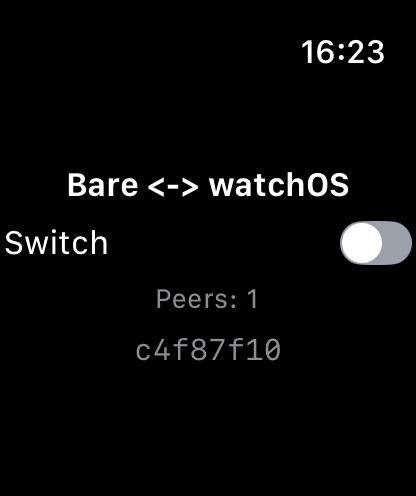
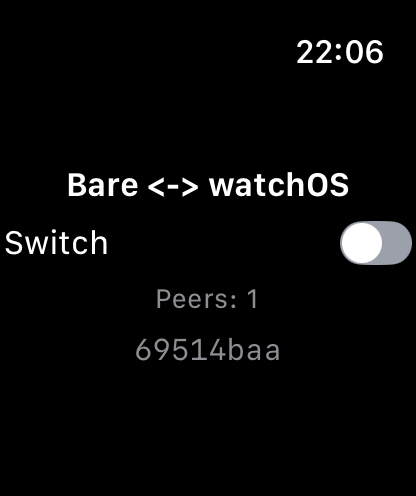
docs: add the results of a clean clone with the patches

Changed region(s): [[0.3125, 0.6653, 0.6875, 0.7258], [0.7188, 0.0605, 0.9375, 0.1512]]

diff --git a/RESULTS.md b/RESULTS.md
@@ -5,42 +5,40 @@ Measured on 2026-11-07 on one Mac. Nothing here ran on a real Apple Watch.
 - Mac17,2 (Apple M5), macOS 26.7.1 (25G241).
 - Xcode 26.2 (17C52): watchOS and watchOS Simulator SDKs 26.2, simulator runtime watchOS 26.2 (23S303), simulator
   `Apple Watch Series 11 (46mm)`. Linker: Xcode's ld-1230.1.
-- `../tools`: bare-make 2.1.2, cmake-toolchains 2.2.2 with the fork over it, cmake-runtime 4.3.1, ninja-runtime
-  1.13.2, llvm-runtime 23.1.6-0 (clang 23.1.5). Node 24.21.0, npm 11.19.0, XcodeGen 2.46.0.
-- Bare Kit sources: Bare v1.36.2 (c0b6b3b, what bare-kit 3.0.1 fetches) and libuv v1.53.0 (840404ce, what Bare
-  fetches), each with its fork's commit; bare-kit 174ecf8 (3.0.1) and bare-kit-swift 7be67fc (2.2.0), each with its
-  fork's commit; libqjsng 8f10631, which builds QuickJS-NG 0.18.0 with its 11 patches; libjs b03f452; libintrusive
-  01eae7f.
-- The worklet: hyperswarm 4.17.2, hyperdht 6.36.0, `@hyperswarm/dht-relay` 0.4.3 with its fork at b04644f
-  (`fix/relayed-client`), `@ciranda/dht-relay-http` at b9b1610, bare-switch-core 1.3.0 with its fork at 61fd18c
-  (`feat/watchos`), bare-foundation 0.1.1 with its fork at 7a25909 (`feat/url-session`), sodium-native 5.2.0 with its
-  fork, udx-native 1.22.1, hrpc 4.3.1. The `overrides` in `package.json` give `@hyperswarm/dht-relay` sodium-universal
-  5 and noise-handshake 4.2, so the app links one sodium-native, 5.2.0, instead of 5.2.0 and 4.3.3.
+- Node 24.21.0, npm 11.19.0, XcodeGen 2.46.0. bare-make 2.1.2, cmake-toolchains 2.2.2 with its patch, cmake-runtime
+  4.3.1, ninja-runtime 1.13.2, llvm-runtime 23.1.6-0 (clang 23.1.5), from `package.json`.
+- The pins in `build.sh`, each with its `patches/`: Bare v1.36.2 and libuv v1.53.0, what bare-kit 3.0.1 and Bare
+  fetch; bare-kit 174ecf8 (3.0.1) and bare-kit-swift 7be67fc (2.2.0); libjs b03f452 and libintrusive 01eae7f; libqjsng
+  8f10631, which builds QuickJS-NG 0.18.0 with its 11 patches; and the commits the other patched repositories start
+  from.
+- The worklet: hyperswarm 4.17.2, hyperdht 6.36.0, `@hyperswarm/dht-relay` at 5036c4b with its patches,
+  `@ciranda/dht-relay-http` at b9b1610, bare-switch-core 1.3.0 and bare-foundation 0.1.1 with their patches,
+  sodium-native 5.2.0, udx-native 1.22.1, hrpc 4.3.1. The `overrides` in `package.json` give `@hyperswarm/dht-relay`
+  sodium-universal 5 and noise-handshake 4.2, so the app links one sodium-native, 5.2.0, instead of 5.2.0 and 4.3.3.
 - The app: bare-rpc-swift 1.1.0 and compact-encoding-swift 1.0.0, pinned in `project.yml` (see below).
 
-## Clean run
+## A clean clone
 
-With `../work`, every `node_modules`, `build`, `prebuilds`, `BareKit.xcframework` and this repository's generated files
-removed:
+This repository at 80aaad0 and `dht-relay-http` at b9b1610, each cloned into a new temporary directory, side by side:
 
 ```sh
-../build.sh            # tools sources barekit example addons: exit 0, 416 s
-../build.sh app run    # exit 0, 55 s
+./build.sh    # sources deps barekit addons app: exit 0, 488 s
 ```
 
-Logs: `../logs/clean-build.log`, `../logs/clean-app-run.log`. 185 compiler and linker warnings, none an error: 114
+Log: `../logs/clone/build.log`. Every patch applied at its pin, and each patched tree is the same git tree as the branch
+the patch came from (Bare and libuv: that branch rebased onto v1.36.2 and v1.53.0). 187 warnings, none an error: 114
 `variable 'err' set but not used`, 33 unused variables and 6 typedef redefinitions from Bare, libuv and the addons, 30
-`-undefined dynamic_lookup is deprecated` (cmake-bare links every Apple addon that way), and
-two that are real on arm64_32 only, both harmless here: Bare's `runtime.c` puts a 64-bit `st_size` in a 32-bit `size_t`
-(a file of 4 GiB or more would read short), and sodium-native's `pbkdf2.c` has a range check that is always false with a
-32-bit `size_t`.
+`-undefined dynamic_lookup is deprecated` (cmake-bare links every Apple addon that way), 2 from Xcode's App Intents
+step, and two that are real on arm64_32 only, both harmless here: Bare's `runtime.c` puts a 64-bit `st_size` in a
+32-bit `size_t` (a file of 4 GiB or more would read short), and sodium-native's `pbkdf2.c` has a range check that is
+always false with a 32-bit `size_t`. The clone had no changes to its tracked files afterwards.
 
 ## BareKit.xcframework
 
-`../forks/bare-kit-swift/BareKit.xcframework`, built by `../build.sh barekit` from bare-kit-swift's own CMake with
+`vendor/bare-kit-swift/BareKit.xcframework`, built by `./build.sh barekit` from bare-kit-swift's own CMake with
 `BARE_ENGINE=github:holepunchto/libqjsng#8f1063161a1d66ea870d1590bf460b7916f21da8`, one `bare-make generate`, `build`
 and `install` per target as `holepunchto/actions/compile-prebuilds` does, then merged as
-`holepunchto/actions/create-xcframework` does with its fork's grouping.
+`holepunchto/actions/create-xcframework` does with its patch.
 
 | Library identifier        | Architectures                                | `BareKit`   | `minos` (LC_BUILD_VERSION) |
 | ------------------------- | -------------------------------------------- | ----------- | -------------------------- |
@@ -55,23 +53,23 @@ and `install` per target as `holepunchto/actions/compile-prebuilds` does, then m
 
 ## The app
 
-`../build.sh app`: `xcodegen generate`, then `BARE_KIT_LOCAL=1 xcodebuild -scheme App` for
+`./build.sh app`: `xcodegen generate`, then `BARE_KIT_LOCAL=1 xcodebuild -scheme App` for
 `platform=watchOS Simulator,name=Apple Watch Series 11 (46mm)` and for `generic/platform=watchOS` with
-`CODE_SIGNING_ALLOWED=NO`. Both `** BUILD SUCCEEDED **`. `app.bundle` is 1,476,937 B: 275 files, 203 of them
+`CODE_SIGNING_ALLOWED=NO`. Both `** BUILD SUCCEEDED **`. `app.bundle` is 1,477,550 B: 275 files, 203 of them
 JavaScript, and five linked addons, made into xcframeworks by the scheme's `bare-link --preset watchos`.
 
 | Debug build       | App        | BareKit     | bare-foundation | sodium-native | udx-native | bare-inspect | bare-type |
 | ----------------- | ---------- | ----------- | --------------- | ------------- | ---------- | ------------ | --------- |
-| watchOS Simulator | 6,748 KiB  | 3,088,432 B | 92,768 B        | 798,912 B     | 242,064 B  | 68,832 B     | 68,944 B  |
-| watchOS, unsigned | 12,212 KiB | 6,160,784 B | 207,808 B       | 1,654,832 B   | 535,392 B  | 200,624 B    | 200,864 B |
+| watchOS Simulator | 6,756 KiB  | 3,088,432 B | 93,072 B        | 798,912 B     | 242,064 B  | 68,832 B     | 68,944 B  |
+| watchOS, unsigned | 12,220 KiB | 6,160,784 B | 208,160 B       | 1,654,832 B   | 535,392 B  | 200,624 B    | 200,864 B |
 
 The simulator build is arm64, the device build arm64_32 + arm64. bare-foundation links Foundation, CoreFoundation,
 libSystem and libobjc, `minos` 8.0. The device build is compiled and linked only: not signed, not installed, not run.
 
 ## The switch in the simulator
 
-The relay and the peer ran on the Mac, on the public DHT, and the app in the simulator, built Debug with `RELAY_URL`
-`http://localhost:49443`:
+The app of the clean clone, built Debug with `RELAY_URL` `http://localhost:49443`, and the relay and the peer on the
+Mac, on the public DHT, from the two clones:
 
 ```sh
 node ../dht-relay-http/bin.js --port 49443 --host 127.0.0.1
@@ -80,79 +78,88 @@ node peer.js
 
 A script that is not part of this repository booted the simulator, started both, waited 15 s for the peer's announce,
 launched the app with `simctl launch --console-pty`, read the worklet's lines from the unified log (`log stream`),
-pressed enter in `peer.js` five times and then tapped the switch five times with an XCUITest runner, 3 s apart. Logs:
-`../logs/switch-run-1.log`, `../logs/switch-run-2.log` (the clean build's app), with `switch-summary-*.json`, and for run
-2 the app's unified log (`switch-watch-raw.log`) and the runner's (`switch-xctest.log`). The screenshots are run 2's.
+pressed enter in `peer.js` five times and then tapped the switch five times with an XCUITest runner, 3 s apart. Then it
+stopped the relay, started it again 10 s after the worklet had lost it, and flipped once from each side. Logs:
+`../logs/clone/switch-run.log`, `switch-summary.json`, the app's unified log (`switch-watch-raw.log`) and the runner's
+(`switch-xctest.log`).
 
-| Connected, off                    | Flipped on in `peer.js` | Flipped off on the watch |
-| --------------------------------- | ----------------------- | ------------------------ |
-| ![Connected](media/connected.png) | ![On](media/on.png)     | ![Off](media/off.png)    |
+| Connected, off                    | Flipped on in `peer.js` | Flipped off on the watch | Joined again after the relay came back |
+| --------------------------------- | ----------------------- | ------------------------ | -------------------------------------- |
+| ![Connected](media/connected.png) | ![On](media/on.png)     | ![Off](media/off.png)    | ![Joined again](media/rejoined.png)    |
 
-| Run | Launch to `up` | `up` to the first peer | `peer.js` to the watch (ms) | The watch to `peer.js` (ms) |
-| --- | -------------- | ---------------------- | --------------------------- | --------------------------- |
-| 1   | 469 ms         | 1,883 ms               | 2.9, 5.0, 6.9, 6.7, 8.7     | 6.2, 7.2, 5.0, 5.4, 14.5    |
-| 2   | 418 ms         | 1,424 ms               | 6.0, 2.9, 7.7, 6.1, 6.8     | 6.0, 3.6, 3.9, 3.3, 4.5     |
+| Launch to `up` | `up` to the first peer | `peer.js` to the watch (ms) | The watch to `peer.js` (ms) | Relay back to a peer |
+| -------------- | ---------------------- | --------------------------- | --------------------------- | -------------------- |
+| 399 ms         | 1,854 ms               | 6.5, 7.2, 7.0, 4.4, 6.2     | 5.8, 3.5, 4.0, 4.6, 5.4     | 6,850 ms             |
 
 - Launch to `up` is from `simctl launch` to the worklet's `[worklet] up` line, which it writes once its bundle is
-  evaluated and the swarm made. In run 2 the app's first line in the unified log came 153 ms before `up`.
+  evaluated and the swarm made. The app's first line in the unified log came 157 ms before `up`.
 - A flip is timed from the line of the side that flipped (`peer.js`'s `set` on its stdout, the worklet's `set` in the
   unified log) to the line of the other side (`state`), all on the Mac's clock. The relay and the peer are on the same
-  Mac as the simulator, so this is the relay's path, not a network's.
-- Every flip arrived, each value once. The relay logged `Session opened (1)` as the worklet started, and one session
-  for the whole run.
-- Memory, as `footprint` reports the app's process: run 1, 37 MB once connected and 44 MB at the end; run 2, 31 MB
-  (peak 34 MB) once connected and 44 MB at the end. This is a Mac process: the whole app, SwiftUI and Bare Kit with the
-  worklet's QuickJS-NG heap, and the simulator sets it no limit.
+  Mac as the simulator, so this is the relay's path, not a network's. Two earlier runs, built from the same changes
+  before they were patches and without the rejoin, measured 2.9 to 8.7 ms one way and 3.3 to 14.5 ms the other.
+- Every flip arrived, each value once. The relay logged `Session opened (1)` as the worklet started.
+- When the relay stopped, its held poll answered `410`, the worklet logged it and `peers - 0`, and tried again every 5
+  s (`Could not connect to the server.`, twice). The relay logged `Session opened (1)` 5.0 s after it was back, and
+  the worklet had its peer 1.8 s later; then a flip from each side arrived (7.0 ms and 5.1 ms).
+- Memory, as `footprint` reports the app's process: 37 MB once connected, 44 MB after the flips, 45 MB at the end. This
+  is a Mac process: the whole app, SwiftUI and Bare Kit with the worklet's QuickJS-NG heap, and the simulator sets it
+  no limit.
 
 The worklet used only URLSession:
 
 - `app.bundle` has no bare-tcp, bare-net, bare-dns, bare-pipe or ws. It has udx-native, as hyperswarm requires hyperdht,
   whose dht-rpc requires udx-native when it loads, so its framework is linked and loaded. The worklet makes no UDX
-  socket: the swarm is given the relayed DHT and never makes one of its own.
-- `lsof -p` on the app's process in run 2, once connected and at the end, listed directories, files, character
-  devices, kqueues and pipes, and no socket of any kind (`lsof -i` found none in run 1 either).
-- CFNetwork logged 65 data tasks of the app in run 2, all `response_status=200`, on 13 http/1.1 connections. It also logged 45 failed tasks
-  (`response_status=-1`), each right after an `Uploading ATS exception ATSAllowsLocalNetworking` (45 of those): its own
-  report of the ATS exception, numbered apart from the app's tasks. The worklet logs any failed request of its own
-  (`[worklet] relay -`), and logged none.
+  socket: each swarm is given the relayed DHT and never makes one of its own.
+- `lsof -p` on the app's process, once connected, after the flips and at the end, listed directories, files, character
+  devices, kqueues and pipes, and no socket of any kind.
+- CFNetwork logged 93 data tasks of the app with a response: 91 `200`, the `410` above, and a `404` for the session the
+  stopped relay no longer had. It also logged 71 failed tasks: the two that couldn't connect while the relay was down,
+  and 69 numbered apart from the app's, each right after an `Uploading ATS exception ATSAllowsLocalNetworking`, its own
+  report of the ATS exception.
 
-Without a relay (`../build.sh run`, which launches the app alone for 5 s), the screenshot (`build/simulator.png`)
-showed the worklet's key and `Peers: 0`, and no crash report was written.
+## Tests of the patches
 
-## Tests of the forks
+| Repository           | Run                               | Result                                                               |
+| -------------------- | --------------------------------- | -------------------------------------------------------------------- |
+| bare-foundation      | `npm test` (Bare, darwin-arm64)   | 8/8, 48/48 asserts, with a new `exiting with a data task in flight`  |
+| bare-switch-core     | `npm test` (Bare), `npm run lint` | 11/11, 27/27 asserts, with a new `joins as a client only when asked` |
+| hyperswarm-dht-relay | `npm test` (standard, Node)       | 18/18, 56/56 asserts, 3 upstream skips, with five new tests          |
+| cmake-toolchains     | `brittle-node test.js`            | 455/455, of which 42 build for the three watchOS toolchains          |
+| bare-addon-resolve   | `npm test` (Bare and Node)        | 96/96 each, with a new `linked module, watchos`                      |
+| bare-link            | `npm test` (Bare and Node)        | 58/58 each, with four new watchOS tests                              |
+| bare-pack            | `brittle-bare` and `brittle-node` | 25/25 each                                                           |
 
-| Fork                 | Branch               | Run                               | Result                                                      |
-| -------------------- | -------------------- | --------------------------------- | ----------------------------------------------------------- |
-| bare-switch-core     | `feat/watchos`       | `npm test` (Bare), `npm run lint` | 11/11, 27/27 asserts, with a new `joins as a client only`   |
-| hyperswarm-dht-relay | `fix/relayed-client` | `npm test` (standard, Node)       | 15/15, 50/50 asserts, 3 upstream skips, two new tests       |
-| cmake-toolchains     | `feat/watchos`       | `brittle-node test.js`            | 455/455, of which 42 build for the three watchOS toolchains |
-| bare-addon-resolve   | `feat/watchos`       | `npm test` (Bare and Node)        | 96/96 each, with a new `linked module, watchos`             |
-| bare-link            | `feat/watchos`       | `npm test` (Bare and Node)        | 58/58 each, with four new watchOS tests                     |
-| bare-pack            | `feat/watchos`       | `brittle-bare` and `brittle-node` | 25/25 each                                                  |
-
-The last four are from the first version of this example and were not run again. hyperswarm-dht-relay's two new tests
-fail before their fixes: `client mode, keep-alive of the server` for `custodial: false`, and `stream that fails to
-open` with an unhandled rejection.
+The last four were run on the first version of this example and not again. The new tests of bare-foundation and
+hyperswarm-dht-relay fail without their fixes: `exiting with a data task in flight` with the child Bare ended by
+`SIGSEGV`, `client mode, keep-alive of the server` for `custodial: false`, and `stream that fails to open` with an
+unhandled rejection.
 
 ## What went wrong on the way
 
-- **The keep-alives of the peer flipped the switch off.** A client of `@hyperswarm/dht-relay` 0.4.3 without custody
-  gets the peer's keep-alives, every 5 s from hyperdht, as empty messages, and bare-switch-core reads an empty message
-  as off. hyperdht's own streams filter them. The fork sets `filterZeroByteMessages` on the client's `SecretStream`.
-- **An unreachable relay was an uncaught error.** In Node, the worklet's code with no relay ended on `fetch failed` from
-  the relay's stream, which nothing listened to, and then on an unhandled rejection of the protocol's opening, which
-  nothing awaits. Bare aborts on either. `app.js` now handles the errors of its stream and the fork leaves no unhandled
-  rejection; then the same code stayed up with no relay, and when the relay went away mid-session (Node, on a
-  `hyperdht/testnet`).
+- **Bare crashed on exit with a data task in flight.** The task's threadsafe function outlived the environment: Bare's
+  last turn of the loop delivered the completion and libjs entered a disposed isolate (`SIGSEGV` in
+  `js_threadsafe_function_s::call()` from `bare_runtime_teardown`). Each task now registers a deferred teardown, as
+  bare-dns does for its lookups: the teardown cancels the task, and its completion lets the environment go without
+  calling into JavaScript.
+- **The keep-alives of the peer flipped the switch off.** A client of `@hyperswarm/dht-relay` without custody gets the
+  peer's keep-alives, every 5 s from hyperdht, as empty messages, and bare-switch-core reads an empty message as off.
+  hyperdht's own streams filter them; the patch sets `filterZeroByteMessages` on the client's `SecretStream`.
+- **An unreachable relay was an uncaught error.** In Node, the worklet's code with no relay ended on `fetch failed`
+  from the relay's stream, which nothing listened to, and then on an unhandled rejection of the protocol's opening,
+  which nothing awaits. Bare aborts on either. `app.js` handles the errors of its stream and joins again 5 s after it
+  closes, and the patch leaves no unhandled rejection.
 - **The spec's Swift packages didn't build.** They asked for bare-rpc-swift and compact-encoding-swift at `main`,
   where bare-rpc-swift 2.0.0 no longer has the `RPCDelegate` the generated `HRPC` uses. Regenerated with hrpc-swift and
   hyperschema-swift 1.0 they ask for `from: "1.0.0"`, but they still say macOS 11 and iOS 14, which SwiftPM reads as
   watchOS 7, while bare-rpc-swift 1.1.1 and compact-encoding-swift 1.0.1 say macOS 13 and iOS 15, so watchOS 8:
   `The package product 'BareRPC' requires minimum platform version 8.0 for the watchOS platform, but this target
 supports 7.0`. `project.yml` pins the last releases before that.
-- **Two sodium-natives.** `@hyperswarm/dht-relay` 0.4.3 asks for sodium-universal 4 and noise-handshake 3, which bring
-  sodium-native 4.3.3 next to 5.2.0. noise-handshake 4.0.0 only adds a length check, and dht-relay uses sodium for
-  `crypto_generichash` and `crypto_sign` alone, so `overrides` give it the versions hyperdht uses.
+- **Two sodium-natives.** `@hyperswarm/dht-relay` asks for sodium-universal 4 and noise-handshake 3, which bring
+  sodium-native 4.3.3 next to 5.2.0. noise-handshake 4.0.0 only added a length check to 3.1.0, and dht-relay uses
+  sodium for `crypto_generichash` and `crypto_sign` alone, so `overrides` give it the versions hyperdht uses.
+- **Bare's watchOS patch doesn't apply to v1.36.2 as it is on main**: `src/bare.d.ts` differs there, so the patch in
+  `patches/bare` adds the same two values to v1.36.2's lists. Bare main can't be used: bare-kit 3.0.1's worklet asks
+  for `builtin:bare-url@2.5.5` and Bare main registers 2.5.6.
 - **A client finds only the peers that announced before it looked.** Hyperswarm looks a topic up when it joins and
   then every 10 minutes. The worklet's code under the Bare CLI on the Mac, started 3 s after `peer.js`, connected in
   one run and had no peer 12 s later in another; started 15 s after, it connected.
@@ -161,13 +168,11 @@ supports 7.0`. `project.yml` pins the last releases before that.
 - **One launch hung on the watch's launch screen**, after an XCUITest session on the same booted simulator: no line
   from the worklet, and the process answered neither `footprint`, `sample` nor `simctl terminate`. It didn't happen
   again on a freshly booted simulator. The cause wasn't found.
-- **The Bare CLI segfaults on `Bare.exit()` while a URLSession data task is in flight** (bare-foundation's fork,
-  darwin-arm64). The worklet doesn't exit, but the binding has to handle it before it goes upstream.
 
 ## What only a real watch can prove
 
 - The network: a watch allows only URLSession's HTTP tasks (TN3135), and it needs the relay over HTTPS. The simulator
-  allows sockets, so the run above shows that the worklet opened none, not that a watch lets URLSession reach the
+  allows sockets, so the runs above show that the worklet opened none, not that a watch lets URLSession reach the
   relay, nor how a watch's radios, Wi-Fi or the paired phone carry the long polls.
 - arm64_32 execution: the simulator runs arm64 only, so QuickJS-NG, Bare and the addons have not run with 32-bit
   pointers anywhere.

diff --git a/README.md b/README.md
@@ -28,7 +28,7 @@ BARE_KIT_LOCAL=1 xcodebuild -scheme App -destination 'generic/platform=watchOS' 
 
 ## Running
 
-Start the relay and a peer on the computer, then the app in the simulator:
+Start the relay (after `npm install` in `../dht-relay-http`) and a peer on the computer, then the app in the simulator:
 
 ```sh
 node ../dht-relay-http/bin.js --host 127.0.0.1
